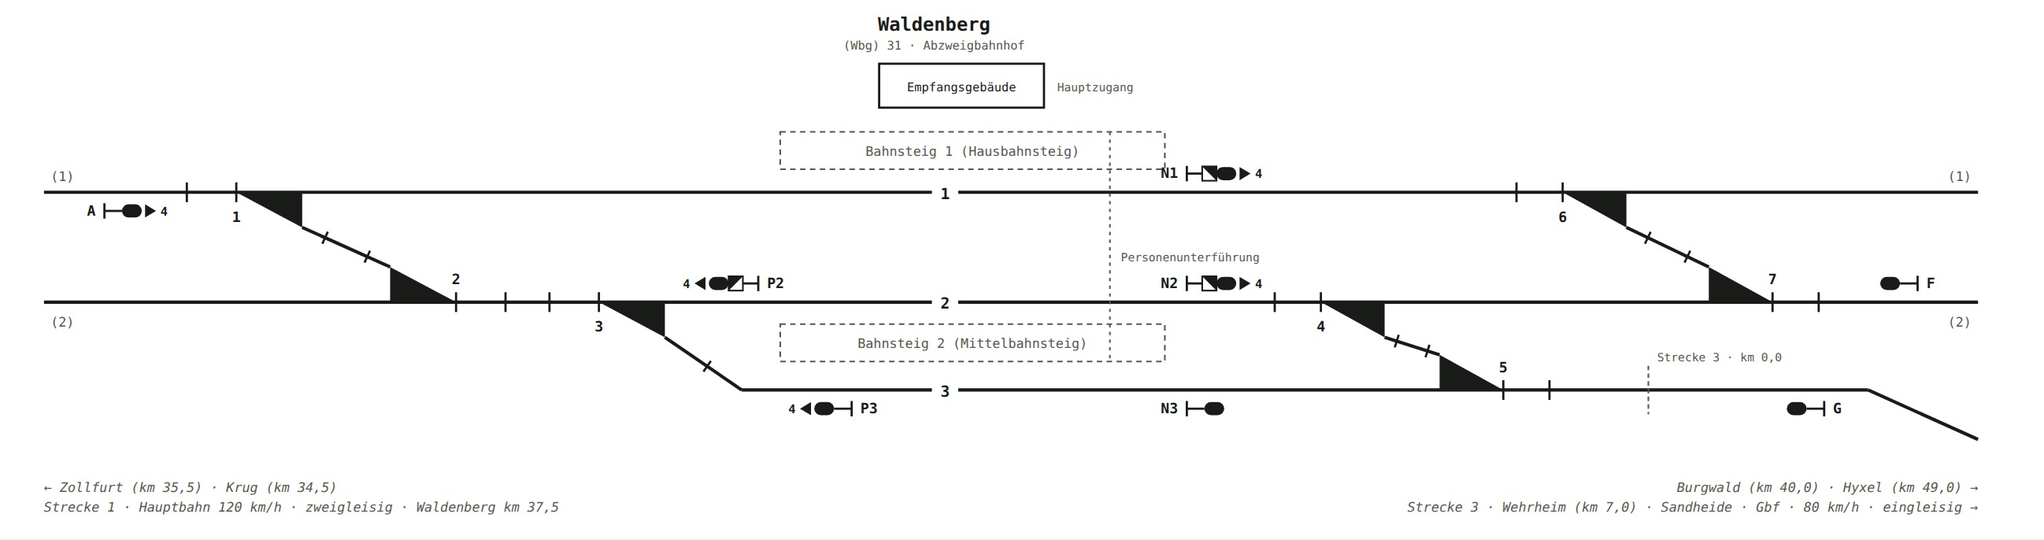
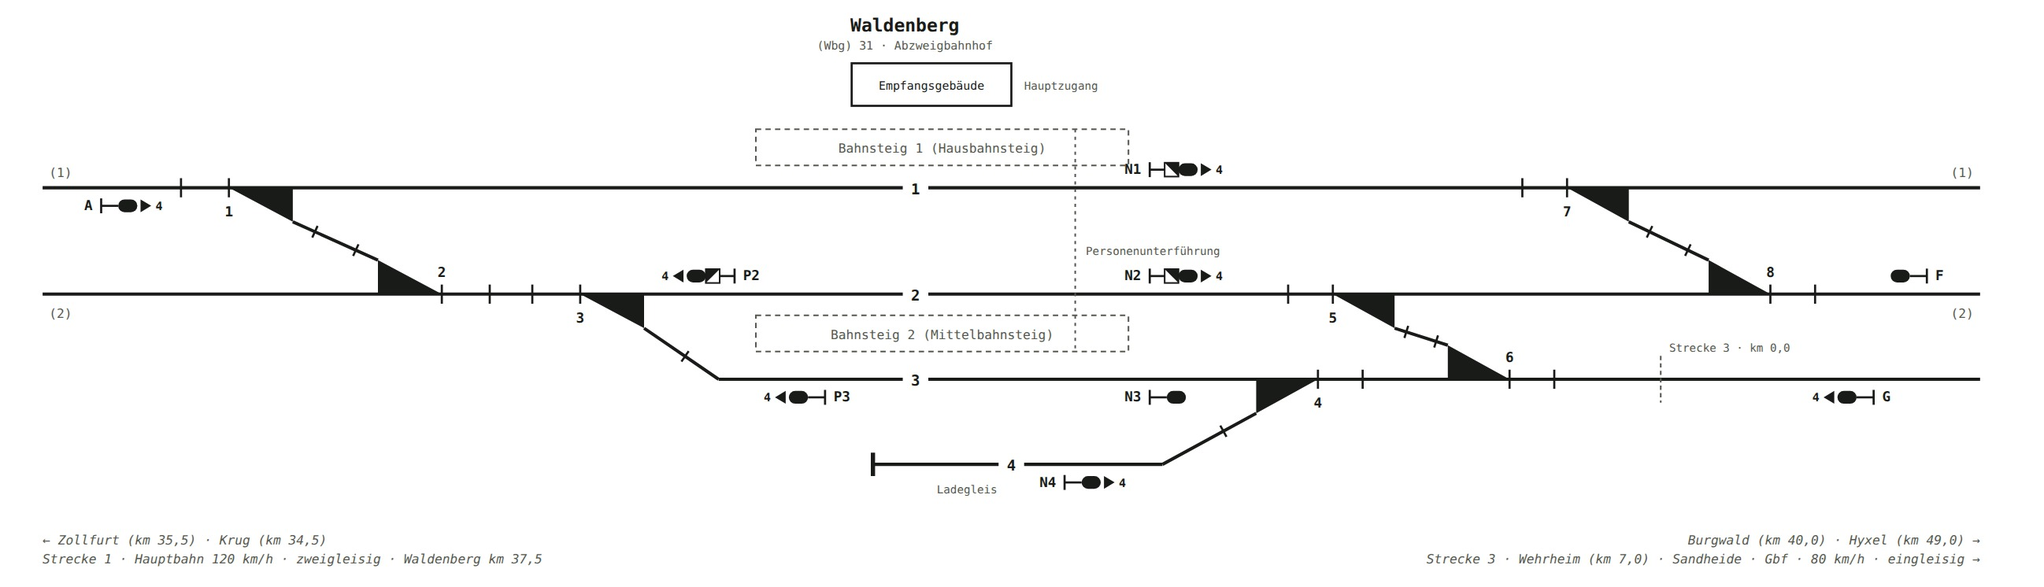
Waldenberg: Ladegleis 4 für den Übergabezug ergänzt
Üg 1 stand bisher in Gleis 3 und kollidierte dort mit der wendenden
RB 64: der Güterzug fährt um 11:35 ab, die RB 64 belegt Gleis 3 von
11:22 bis 11:36. Gleis 4 ist nun ein Stumpfgleis mit Prellbock im
Westen, südlich von Gleis 3, und über Weiche 4 östlich des Bahnsteigs
angebunden. Die Ausfahrt des Übergabezuges berührt den
Bahnsteigabschnitt damit nicht mehr.

Dazu Ausfahrsignal N4 mit Zs 3 für die abzweigende Fahrt über Weiche 4
sowie Zs 3 am Einfahrsignal G, das jetzt auch nach Gleis 4 und über
Weiche 6 nach Gleis 2 einfahren lassen kann. Die Ostkopfweichen sind
neu durchnummeriert, damit die Nummern weiter mit der Kilometrierung
steigen.

Claude-Session: https://claude.ai/code/session_01946ufwtxKyfXxUR2Dq2NLD

diff --git a/lageplan-waldenberg.html b/lageplan-waldenberg.html
@@ -82,7 +82,8 @@
     Wehrheim – Sandheide – Gbf beginnt hier bei <strong>km 0,0</strong>; ihr Bahnsteiggleis ist
     Gleis 3, das östlich des Bahnsteigs in die Nebenbahn übergeht. Weil Gleis 2 über die
     Weichen 4 und 5 eine <strong>eigene Anbindung an die Nebenbahn</strong> hat, kann ein Zug
-    aus Gleis 2 auf die Nebenbahn ausfahren, während in Gleis 3 ein anderer wendet. Beide Hauptgleise bleiben
+    aus Gleis 2 auf die Nebenbahn ausfahren, während in Gleis 3 ein anderer wendet. Für den
+    Übergabezug Üg 1 liegt südlich davon das <strong>Ladegleis 4</strong> als Stumpfgleis. Beide Hauptgleise bleiben
     durchgehend gerade, damit IC 11/13/15, RE 70/71 und die Güterzüge mit 120 km/h ohne
     abzweigend zu befahrende Weiche durchfahren können.
   </p>
@@ -100,11 +101,14 @@
     </p>
 
     <div class="diagram-scroll">
-      <svg class="plan" viewBox="0 0 1860 490" role="img" aria-label="Sicherungstechnischer Lageplan des Abzweigbahnhofs Waldenberg. Die zweigleisige Hauptbahn (Strecke 1, Krug–Furth, km 37,5) läuft mit Gleis 1 und Gleis 2 durchgehend gerade durch die Betriebsstelle. Gleis 3 liegt südlich als Bahnsteiggleis der eingleisigen Nebenbahn und geht östlich unmittelbar in die Strecke 3 nach Wehrheim–Sandheide–Gbf über, deren Kilometrierung hier bei km 0,0 beginnt. Am Westkopf verbinden die Weichen 1 und 2 als Überleitverbinder Gleis 1 und Gleis 2, Weiche 3 führt von Gleis 2 auf Gleis 3. Am Ostkopf binden die Weichen 4 und 5 Gleis 2 östlich des Bahnsteigs an die Nebenbahn an, die Weichen 6 und 7 bilden einen zweiten Überleitverbinder zwischen Gleis 1 und Gleis 2. Bahnsteig 1 ist Hausbahnsteig an Gleis 1 am Empfangsgebäude, Bahnsteig 2 ist Mittelbahnsteig zwischen Gleis 2 und Gleis 3, verbunden über eine Personenunterführung. Einfahrsignale A (von Zollfurt), F (von Burgwald) und G (von Wehrheim), Ausfahrsignale N1, N2, N3, P2 und P3; N1 und P2 mit Gegengleisanzeiger und Zs 3 für die Fahrt über den jeweiligen Überleitverbinder auf das Gegengleis.">
+      <svg class="plan" viewBox="0 0 1920 550" role="img" aria-label="Sicherungstechnischer Lageplan des Abzweigbahnhofs Waldenberg. Die zweigleisige Hauptbahn (Strecke 1, Krug–Furth, km 37,5) läuft mit Gleis 1 und Gleis 2 durchgehend gerade durch die Betriebsstelle. Gleis 3 liegt südlich als Bahnsteiggleis der eingleisigen Nebenbahn und geht östlich unmittelbar in die Strecke 3 nach Wehrheim–Sandheide–Gbf über, deren Kilometrierung hier bei km 0,0 beginnt. Am Westkopf verbinden die Weichen 1 und 2 als Überleitverbinder Gleis 1 und Gleis 2, Weiche 3 führt von Gleis 2 auf Gleis 3. Am Ostkopf bindet Weiche 4 das Ladegleis 4 an, die Weichen 5 und 6 verbinden Gleis 2 östlich des Bahnsteigs mit der Nebenbahn, die Weichen 7 und 8 bilden einen zweiten Überleitverbinder zwischen Gleis 1 und Gleis 2. Bahnsteig 1 ist Hausbahnsteig an Gleis 1 am Empfangsgebäude, Bahnsteig 2 ist Mittelbahnsteig zwischen Gleis 2 und Gleis 3, verbunden über eine Personenunterführung. Einfahrsignale A (von Zollfurt), F (von Burgwald) und G (von Wehrheim), Ausfahrsignale N1, N2, N3, N4, P2 und P3; N1 und P2 mit Gegengleisanzeiger und Zs 3 für die Fahrt über den jeweiligen Überleitverbinder auf das Gegengleis.">
         <text x="850" y="28" text-anchor="middle" font-size="17" font-weight="700" fill="currentColor">Waldenberg</text>
         <text x="850" y="45" text-anchor="middle" font-size="11" fill="var(--ink-soft)">(Wbg) 31 · Abzweigbahnhof</text>
-        <g stroke="currentColor" fill="none" stroke-width="3"><line x1="40" y1="175" x2="1800" y2="175"/><line x1="40" y1="275" x2="1800" y2="275"/></g>
-        <g stroke="currentColor" fill="none" stroke-width="3"><line x1="675" y1="355" x2="1700" y2="355"/><line x1="1700" y1="355" x2="1800" y2="400"/></g>
+        <g stroke="currentColor" fill="none" stroke-width="3"><line x1="40" y1="175" x2="1860" y2="175"/><line x1="40" y1="275" x2="1860" y2="275"/></g>
+        <g stroke="currentColor" fill="none" stroke-width="3"><line x1="675" y1="355" x2="1860" y2="355"/></g>
+        <line x1="820" y1="435" x2="1092" y2="435" stroke="currentColor" fill="none" stroke-width="3"/>
+        <line x1="820" y1="424" x2="820" y2="446" stroke="currentColor" stroke-width="4"/>
+        <text x="880" y="462" font-size="10.5" fill="var(--ink-soft)">Ladegleis</text>
         <line x1="170" y1="166" x2="170" y2="184" stroke="currentColor" stroke-width="2"/>
 <line x1="215" y1="166" x2="215" y2="184" stroke="currentColor" stroke-width="2"/>
 <polygon points="215,175 275,175 275,207" fill="currentColor"/>
@@ -122,28 +126,34 @@
 <text x="545" y="302" text-anchor="middle" font-size="13" font-weight="600" fill="currentColor">3</text>
         <line x1="605" y1="307" x2="675" y2="355" stroke="currentColor" stroke-width="3"/>
         <line x1="640.1" y1="338.3" x2="646.9" y2="328.5" stroke="currentColor" stroke-width="2"/>
-        <line x1="1160" y1="266" x2="1160" y2="284" stroke="currentColor" stroke-width="2"/>
-<line x1="1202" y1="266" x2="1202" y2="284" stroke="currentColor" stroke-width="2"/>
-<polygon points="1202,275 1260,275 1260,307" fill="currentColor"/>
-<text x="1202" y="302" text-anchor="middle" font-size="13" font-weight="600" fill="currentColor">4</text>
-        <line x1="1410" y1="346" x2="1410" y2="364" stroke="currentColor" stroke-width="2"/>
-<line x1="1368" y1="346" x2="1368" y2="364" stroke="currentColor" stroke-width="2"/>
-<polygon points="1368,355 1310,355 1310,323" fill="currentColor"/>
-<text x="1368" y="339" text-anchor="middle" font-size="13" font-weight="600" fill="currentColor">5</text>
-        <line x1="1260" y1="307" x2="1310" y2="323" stroke="currentColor" stroke-width="3"/>
-        <line x1="1269.2" y1="316.2" x2="1272.8" y2="304.8" stroke="currentColor" stroke-width="2"/>
-        <line x1="1297.2" y1="325.2" x2="1300.8" y2="313.8" stroke="currentColor" stroke-width="2"/>
-        <line x1="1380" y1="166" x2="1380" y2="184" stroke="currentColor" stroke-width="2"/>
-<line x1="1422" y1="166" x2="1422" y2="184" stroke="currentColor" stroke-width="2"/>
-<polygon points="1422,175 1480,175 1480,207" fill="currentColor"/>
-<text x="1422" y="202" text-anchor="middle" font-size="13" font-weight="600" fill="currentColor">6</text>
-        <line x1="1655" y1="266" x2="1655" y2="284" stroke="currentColor" stroke-width="2"/>
-<line x1="1613" y1="266" x2="1613" y2="284" stroke="currentColor" stroke-width="2"/>
-<polygon points="1613,275 1555,275 1555,243" fill="currentColor"/>
-<text x="1613" y="259" text-anchor="middle" font-size="13" font-weight="600" fill="currentColor">7</text>
-        <line x1="1480" y1="207" x2="1555" y2="243" stroke="currentColor" stroke-width="3"/>
-        <line x1="1496.9" y1="221.8" x2="1502.1" y2="211.0" stroke="currentColor" stroke-width="2"/>
-        <line x1="1532.9" y1="239.0" x2="1538.1" y2="228.2" stroke="currentColor" stroke-width="2"/>
+        <line x1="1280" y1="346" x2="1280" y2="364" stroke="currentColor" stroke-width="2"/>
+<line x1="1238" y1="346" x2="1238" y2="364" stroke="currentColor" stroke-width="2"/>
+<polygon points="1238,355 1180,355 1180,387" fill="currentColor"/>
+<text x="1238" y="382" text-anchor="middle" font-size="13" font-weight="600" fill="currentColor">4</text>
+        <line x1="1180" y1="387" x2="1092" y2="435" stroke="currentColor" stroke-width="3"/>
+        <line x1="1146.3" y1="398.5" x2="1152.1" y2="409.1" stroke="currentColor" stroke-width="2"/>
+        <line x1="1210" y1="266" x2="1210" y2="284" stroke="currentColor" stroke-width="2"/>
+<line x1="1252" y1="266" x2="1252" y2="284" stroke="currentColor" stroke-width="2"/>
+<polygon points="1252,275 1310,275 1310,307" fill="currentColor"/>
+<text x="1252" y="302" text-anchor="middle" font-size="13" font-weight="600" fill="currentColor">5</text>
+        <line x1="1460" y1="346" x2="1460" y2="364" stroke="currentColor" stroke-width="2"/>
+<line x1="1418" y1="346" x2="1418" y2="364" stroke="currentColor" stroke-width="2"/>
+<polygon points="1418,355 1360,355 1360,323" fill="currentColor"/>
+<text x="1418" y="339" text-anchor="middle" font-size="13" font-weight="600" fill="currentColor">6</text>
+        <line x1="1310" y1="307" x2="1360" y2="323" stroke="currentColor" stroke-width="3"/>
+        <line x1="1319.2" y1="316.2" x2="1322.8" y2="304.8" stroke="currentColor" stroke-width="2"/>
+        <line x1="1347.2" y1="325.2" x2="1350.8" y2="313.8" stroke="currentColor" stroke-width="2"/>
+        <line x1="1430" y1="166" x2="1430" y2="184" stroke="currentColor" stroke-width="2"/>
+<line x1="1472" y1="166" x2="1472" y2="184" stroke="currentColor" stroke-width="2"/>
+<polygon points="1472,175 1530,175 1530,207" fill="currentColor"/>
+<text x="1472" y="202" text-anchor="middle" font-size="13" font-weight="600" fill="currentColor">7</text>
+        <line x1="1705" y1="266" x2="1705" y2="284" stroke="currentColor" stroke-width="2"/>
+<line x1="1663" y1="266" x2="1663" y2="284" stroke="currentColor" stroke-width="2"/>
+<polygon points="1663,275 1605,275 1605,243" fill="currentColor"/>
+<text x="1663" y="259" text-anchor="middle" font-size="13" font-weight="600" fill="currentColor">8</text>
+        <line x1="1530" y1="207" x2="1605" y2="243" stroke="currentColor" stroke-width="3"/>
+        <line x1="1546.9" y1="221.8" x2="1552.1" y2="211.0" stroke="currentColor" stroke-width="2"/>
+        <line x1="1582.9" y1="239.0" x2="1588.1" y2="228.2" stroke="currentColor" stroke-width="2"/>
         <rect x="800" y="58" width="150" height="40" fill="none" stroke="currentColor" stroke-width="2"/>
         <text x="875" y="83" text-anchor="middle" font-size="11" fill="currentColor">Empfangsgebäude</text>
         <text x="962" y="83" font-size="10.5" fill="var(--ink-soft)">Hauptzugang</text>
@@ -156,7 +166,8 @@
         <rect x="848" y="165" width="24" height="20" fill="var(--surface)"/><text x="860" y="181" text-anchor="middle" font-size="14" font-weight="600" fill="currentColor">1</text>
         <rect x="848" y="265" width="24" height="20" fill="var(--surface)"/><text x="860" y="281" text-anchor="middle" font-size="14" font-weight="600" fill="currentColor">2</text>
         <rect x="848" y="345" width="24" height="20" fill="var(--surface)"/><text x="860" y="361" text-anchor="middle" font-size="14" font-weight="600" fill="currentColor">3</text>
-        <g fill="var(--ink-soft)" font-size="12"><text x="46" y="165">(1)</text><text x="46" y="297">(2)</text><text x="1794" y="165" text-anchor="end">(1)</text><text x="1794" y="297" text-anchor="end">(2)</text></g>
+        <rect x="938" y="425" width="24" height="20" fill="var(--surface)"/><text x="950" y="441" text-anchor="middle" font-size="14" font-weight="600" fill="currentColor">4</text>
+        <g fill="var(--ink-soft)" font-size="12"><text x="46" y="165">(1)</text><text x="46" y="297">(2)</text><text x="1854" y="165" text-anchor="end">(1)</text><text x="1854" y="297" text-anchor="end">(2)</text></g>
         <g stroke="currentColor" stroke-width="2" fill="none"><line x1="95" y1="185" x2="95" y2="199"/><line x1="95" y1="192" x2="111" y2="192"/></g>
 <rect x="111" y="186" width="18" height="12" rx="6" fill="currentColor"/>
 <polygon points="132,186 142,192 132,198" fill="currentColor"/>
@@ -191,15 +202,22 @@
         <g stroke="currentColor" stroke-width="2" fill="none"><line x1="1080" y1="365" x2="1080" y2="379"/><line x1="1080" y1="372" x2="1096" y2="372"/></g>
 <rect x="1096" y="366" width="18" height="12" rx="6" fill="currentColor"/>
 <text x="1072" y="376" text-anchor="end" font-size="13" font-weight="600" fill="currentColor">N3</text>
-        <g stroke="currentColor" stroke-width="2" fill="none"><line x1="1745" y1="251" x2="1745" y2="265"/><line x1="1745" y1="258" x2="1729" y2="258"/></g>
-<rect x="1711" y="252" width="18" height="12" rx="6" fill="currentColor"/>
-<text x="1753" y="262" font-size="13" font-weight="600" fill="currentColor">F</text>
-        <g stroke="currentColor" stroke-width="2" fill="none"><line x1="1660" y1="365" x2="1660" y2="379"/><line x1="1660" y1="372" x2="1644" y2="372"/></g>
-<rect x="1626" y="366" width="18" height="12" rx="6" fill="currentColor"/>
-<text x="1668" y="376" font-size="13" font-weight="600" fill="currentColor">G</text>
-        <line x1="1500" y1="333" x2="1500" y2="377" stroke="var(--ink-soft)" stroke-width="1.5" stroke-dasharray="4,3"/>
-        <text x="1508" y="329" font-size="10.5" fill="var(--ink-soft)">Strecke 3 · km 0,0</text>
-        <g fill="var(--ink-soft)" font-size="12" font-style="italic"><text x="40" y="448">← Zollfurt (km 35,5) · Krug (km 34,5)</text><text x="40" y="466">Strecke 1 · Hauptbahn 120 km/h · zweigleisig · Waldenberg km 37,5</text><text x="1800" y="448" text-anchor="end">Burgwald (km 40,0) · Hyxel (km 49,0) →</text><text x="1800" y="466" text-anchor="end">Strecke 3 · Wehrheim (km 7,0) · Sandheide · Gbf · 80 km/h · eingleisig →</text></g>
+        <g stroke="currentColor" stroke-width="2" fill="none"><line x1="1000" y1="445" x2="1000" y2="459"/><line x1="1000" y1="452" x2="1016" y2="452"/></g>
+<rect x="1016" y="446" width="18" height="12" rx="6" fill="currentColor"/>
+<polygon points="1037,446 1047,452 1037,458" fill="currentColor"/>
+<text x="1051" y="456" font-size="11" font-weight="600" fill="currentColor">4</text>
+<text x="992" y="456" text-anchor="end" font-size="13" font-weight="600" fill="currentColor">N4</text>
+        <g stroke="currentColor" stroke-width="2" fill="none"><line x1="1810" y1="251" x2="1810" y2="265"/><line x1="1810" y1="258" x2="1794" y2="258"/></g>
+<rect x="1776" y="252" width="18" height="12" rx="6" fill="currentColor"/>
+<text x="1818" y="262" font-size="13" font-weight="600" fill="currentColor">F</text>
+        <g stroke="currentColor" stroke-width="2" fill="none"><line x1="1760" y1="365" x2="1760" y2="379"/><line x1="1760" y1="372" x2="1744" y2="372"/></g>
+<rect x="1726" y="366" width="18" height="12" rx="6" fill="currentColor"/>
+<polygon points="1723,366 1713,372 1723,378" fill="currentColor"/>
+<text x="1709" y="376" text-anchor="end" font-size="11" font-weight="600" fill="currentColor">4</text>
+<text x="1768" y="376" font-size="13" font-weight="600" fill="currentColor">G</text>
+        <line x1="1560" y1="333" x2="1560" y2="377" stroke="var(--ink-soft)" stroke-width="1.5" stroke-dasharray="4,3"/>
+        <text x="1568" y="329" font-size="10.5" fill="var(--ink-soft)">Strecke 3 · km 0,0</text>
+        <g fill="var(--ink-soft)" font-size="12" font-style="italic"><text x="40" y="510">← Zollfurt (km 35,5) · Krug (km 34,5)</text><text x="40" y="528">Strecke 1 · Hauptbahn 120 km/h · zweigleisig · Waldenberg km 37,5</text><text x="1860" y="510" text-anchor="end">Burgwald (km 40,0) · Hyxel (km 49,0) →</text><text x="1860" y="528" text-anchor="end">Strecke 3 · Wehrheim (km 7,0) · Sandheide · Gbf · 80 km/h · eingleisig →</text></g>
       </svg>
     </div>
 
@@ -210,7 +228,8 @@
       <span>Hauptgleise 1 und 2 durchgehend gerade, Streckengeschwindigkeit 120 km/h.</span>
       <span>Strecke 3 (Nebenbahn) beginnt in Waldenberg bei km 0,0, eingleisig, 80 km/h.</span>
       <span>Gegengleisfahrten über die Überleitverbinder sind signalisiert: Gegengleisanzeiger an P2, N1 und N2.</span>
-      <span>Gleis 3 und die Anbindung Gleis 2 → Nebenbahn (Weichen 4/5) sind voneinander unabhängig befahrbar.</span>
+      <span>Gleis 3 und die Anbindung Gleis 2 → Nebenbahn (Weichen 5/6) sind voneinander unabhängig befahrbar.</span>
+      <span>Gleis 4 ist Ladegleis ohne Bahnsteig, Stumpfgleis mit Prellbock im Westen.</span>
     </div>
   </section>
 
@@ -226,8 +245,8 @@
           <tr><td class="mono">IC 11/13/15<br>RE 70/71<br>GZ 2/3/4</td><td>Durchfahrt Hauptbahn ohne Halt, gerade über beide Hauptgleise</td><td class="mono">1 / 2</td></tr>
           <tr><td class="mono">RE 71 · RB 61<br>RB 65</td><td>Halt an der Hauptbahn: Richtung Osten an Bahnsteig 1, Richtung Westen an Bahnsteig 2</td><td class="mono">1 / 2</td></tr>
           <tr><td class="mono">RB 64</td><td><strong>Wendet in Waldenberg.</strong> Einfahrt von Wehrheim über Signal G, Halt an Bahnsteig 2, Ausfahrt über N3 zurück zur Nebenbahn – ohne die Hauptgleise zu berühren</td><td class="mono">3</td></tr>
-          <tr><td class="mono">RB 66</td><td><strong>Übergang Hauptbahn → Nebenbahn.</strong> Einfahrt von Krug über A, Überleitverbinder Weichen 1/2 auf Gleis 2, Halt an Bahnsteig 2, Ausfahrt über N2 (Zs 3) und die Weichen 4/5 auf die Nebenbahn – <strong>Gleis 3 bleibt dabei frei</strong></td><td class="mono">1 → 2</td></tr>
-          <tr><td class="mono">Üg 1</td><td>Beginnt und endet in Waldenberg, bereitgestellt in Gleis 3 (Wende- und Bereitstellungsgleis der Nebenbahn)</td><td class="mono">3</td></tr>
+          <tr><td class="mono">RB 66</td><td><strong>Übergang Hauptbahn → Nebenbahn.</strong> Einfahrt von Krug über A, Überleitverbinder Weichen 1/2 auf Gleis 2, Halt an Bahnsteig 2, Ausfahrt über N2 (Zs 3) und die Weichen 5/6 auf die Nebenbahn – <strong>Gleis 3 bleibt dabei frei</strong></td><td class="mono">1 → 2</td></tr>
+          <tr><td class="mono">Üg 1</td><td>Beginnt und endet in Waldenberg, bereitgestellt im <strong>Ladegleis 4</strong>. Ausfahrt über N4 und Weiche 4 auf Gleis 3 – die Fahrt berührt den Bahnsteigabschnitt von Gleis 3 nicht, die RB 64 kann dort gleichzeitig wenden</td><td class="mono">4</td></tr>
         </tbody>
       </table>
     </div>
@@ -244,10 +263,11 @@
               <tr><td class="mono">1</td><td class="mono">31W1</td><td>Gleis 1 → Verbindungsgleis (Westkopf, Überleitverbinder)</td></tr>
               <tr><td class="mono">2</td><td class="mono">31W2</td><td>Verbindungsgleis → Gleis 2 (Westkopf, Überleitverbinder)</td></tr>
               <tr><td class="mono">3</td><td class="mono">31W3</td><td>Gleis 2 → Gleis 3 (Westanbindung des Nebenbahngleises)</td></tr>
-              <tr><td class="mono">4</td><td class="mono">31W4</td><td>Gleis 2 → Verbindungsgleis zur Nebenbahn (Ostkopf)</td></tr>
-              <tr><td class="mono">5</td><td class="mono">31W5</td><td>Verbindungsgleis → Gleis 3 / Nebenbahn (Ostkopf, östlich des Bahnsteigs)</td></tr>
-              <tr><td class="mono">6</td><td class="mono">31W6</td><td>Gleis 1 → Verbindungsgleis (Ostkopf, Überleitverbinder)</td></tr>
-              <tr><td class="mono">7</td><td class="mono">31W7</td><td>Verbindungsgleis → Gleis 2 (Ostkopf, Überleitverbinder)</td></tr>
+              <tr><td class="mono">4</td><td class="mono">31W4</td><td>Gleis 3 → Gleis 4 (Anbindung des Ladegleises, östlich des Bahnsteigs)</td></tr>
+              <tr><td class="mono">5</td><td class="mono">31W5</td><td>Gleis 2 → Verbindungsgleis zur Nebenbahn (Ostkopf)</td></tr>
+              <tr><td class="mono">6</td><td class="mono">31W6</td><td>Verbindungsgleis → Gleis 3 / Nebenbahn (Ostkopf)</td></tr>
+              <tr><td class="mono">7</td><td class="mono">31W7</td><td>Gleis 1 → Verbindungsgleis (Ostkopf, Überleitverbinder)</td></tr>
+              <tr><td class="mono">8</td><td class="mono">31W8</td><td>Verbindungsgleis → Gleis 2 (Ostkopf, Überleitverbinder)</td></tr>
             </tbody>
           </table>
         </div>
@@ -260,10 +280,11 @@
             <tbody>
               <tr><td class="mono">A</td><td class="mono">31A</td><td>Einfahrsignal Gleis 1, von Zollfurt/Krug · mit <strong>Zs 3 (4)</strong> für die Einfahrt nach Gleis 3 über die Weichen 1/2/3</td></tr>
               <tr><td class="mono">F</td><td class="mono">31F</td><td>Einfahrsignal Gleis 2, von Burgwald/Hyxel</td></tr>
-              <tr><td class="mono">G</td><td class="mono">31G</td><td>Einfahrsignal Nebenbahn, von Wehrheim (Strecke 3)</td></tr>
-              <tr><td class="mono">N1</td><td class="mono">31N1</td><td>Ausfahrsignal Gleis 1, Richtung Burgwald/Hyxel · am Ostende von Bahnsteig 1 · mit <strong>Gegengleisanzeiger</strong> und <strong>Zs 3 (4)</strong> für die Fahrt über die Weichen 6/7 auf das Gegengleis</td></tr>
-              <tr><td class="mono">N2</td><td class="mono">31N2</td><td>Ausfahrsignal Gleis 2, Richtung Osten · am Ostende von Bahnsteig 2 · mit <strong>Zs 3 (4)</strong> für die Fahrt über die Weichen 4/5 auf die Nebenbahn und <strong>Gegengleisanzeiger</strong> für die Fahrt auf Streckengleis (2)</td></tr>
+              <tr><td class="mono">G</td><td class="mono">31G</td><td>Einfahrsignal Nebenbahn, von Wehrheim (Strecke 3) · mit <strong>Zs 3 (4)</strong> für die Einfahrt nach Gleis 4 oder über Weiche 6 nach Gleis 2</td></tr>
+              <tr><td class="mono">N1</td><td class="mono">31N1</td><td>Ausfahrsignal Gleis 1, Richtung Burgwald/Hyxel · am Ostende von Bahnsteig 1 · mit <strong>Gegengleisanzeiger</strong> und <strong>Zs 3 (4)</strong> für die Fahrt über die Weichen 7/8 auf das Gegengleis</td></tr>
+              <tr><td class="mono">N2</td><td class="mono">31N2</td><td>Ausfahrsignal Gleis 2, Richtung Osten · am Ostende von Bahnsteig 2 · mit <strong>Zs 3 (4)</strong> für die Fahrt über die Weichen 5/6 auf die Nebenbahn und <strong>Gegengleisanzeiger</strong> für die Fahrt auf Streckengleis (2)</td></tr>
               <tr><td class="mono">N3</td><td class="mono">31N3</td><td>Ausfahrsignal Gleis 3, Richtung Wehrheim · am Ostende von Bahnsteig 2</td></tr>
+              <tr><td class="mono">N4</td><td class="mono">31N4</td><td>Ausfahrsignal Gleis 4 (Ladegleis), Richtung Wehrheim · mit <strong>Zs 3 (4)</strong> für die Fahrt über Weiche 4 auf Gleis 3</td></tr>
               <tr><td class="mono">P2</td><td class="mono">31P2</td><td>Ausfahrsignal Gleis 2, Richtung Zollfurt/Krug · am Westende von Bahnsteig 2 · mit <strong>Gegengleisanzeiger</strong> und <strong>Zs 3 (4)</strong> für die Fahrt über die Weichen 2/1 auf das Gegengleis</td></tr>
               <tr><td class="mono">P3</td><td class="mono">31P3</td><td>Ausfahrsignal Gleis 3, Richtung Zollfurt/Krug über die Weichen 3/2 · mit <strong>Zs 3 (4)</strong></td></tr>
               <tr><td class="mono">—</td><td class="mono">—</td><td>Gesonderte Vorsignale entfallen: Vorsignalisierung über den Ks-2-Begriff der Mehrabschnittssignale</td></tr>
@@ -275,13 +296,13 @@
 
     <div class="caveat">
       <strong>Signalstandorte:</strong> Die Einfahrsignale A, F und G stehen an der jeweiligen
-      Bahnhofsgrenze vor der ersten Einfahrweiche. Die Ausfahrsignale N1, N2, N3, P2 und P3 stehen
+      Bahnhofsgrenze vor der ersten Einfahrweiche. Die Ausfahrsignale N1, N2, N3, N4, P2 und P3 stehen
       am Ende des jeweiligen Bahnhofsgleises unmittelbar hinter dem Bahnsteig; die Ausfahrstraße
       läuft von dort über alle Bahnhofsweichen. Einen Zs 3 tragen nur die Signale, deren
       Fahrstraße abzweigend über eine Weiche führt: A (Einfahrt nach Gleis 3), P3 (Ausfahrt über
       die Weichen 3/2) sowie P2 und N1 für die Fahrt über den jeweiligen Überleitverbinder.
       P2 und N1 tragen zusätzlich den <strong>Gegengleisanzeiger</strong>, weil der Zug dabei auf
-      das Streckengleis der Gegenrichtung übergeht. Die Weichen 4 und 5 sind der Grund, warum das mit drei Gleisen aufgeht: Der Fahrplan
+      das Streckengleis der Gegenrichtung übergeht. Die Weichen 5 und 6 sind der Grund, warum das mit drei Gleisen aufgeht: Der Fahrplan
       verlangt um 10:34 eine Nebenbahn-Ausfahrt der RB 66, während die RB 64 von 10:22 bis 10:36
       in Gleis 3 wendet. Über Gleis 2 und die Weichen 4/5 sind beide Fahrten unabhängig.
     </div>

diff --git a/zeichnung-waldenberg.html b/zeichnung-waldenberg.html
@@ -17,11 +17,14 @@
 <text x="42" y="60" font-size="15" font-weight="700" fill="#000" font-family="IBM Plex Mono, monospace">Lageplan Waldenberg</text>
 <text x="1558" y="60" text-anchor="end" font-size="11" fill="#000" font-family="IBM Plex Mono, monospace">Ril 819.9001 / 819.9002</text>
 <line x1="42" y1="70" x2="1558" y2="70" stroke="#000" stroke-width="1"/>
-<g transform="translate(46,345) scale(0.81)" font-family="IBM Plex Mono, monospace">
+<g transform="translate(51,300) scale(0.78)" font-family="IBM Plex Mono, monospace">
         <text x="850" y="28" text-anchor="middle" font-size="17" font-weight="700" fill="#000000">Waldenberg</text>
         <text x="850" y="45" text-anchor="middle" font-size="11" fill="#333333">(Wbg) 31 · Abzweigbahnhof</text>
-        <g stroke="#000000" fill="none" stroke-width="3"><line x1="40" y1="175" x2="1800" y2="175"/><line x1="40" y1="275" x2="1800" y2="275"/></g>
-        <g stroke="#000000" fill="none" stroke-width="3"><line x1="675" y1="355" x2="1700" y2="355"/><line x1="1700" y1="355" x2="1800" y2="400"/></g>
+        <g stroke="#000000" fill="none" stroke-width="3"><line x1="40" y1="175" x2="1860" y2="175"/><line x1="40" y1="275" x2="1860" y2="275"/></g>
+        <g stroke="#000000" fill="none" stroke-width="3"><line x1="675" y1="355" x2="1860" y2="355"/></g>
+        <line x1="820" y1="435" x2="1092" y2="435" stroke="#000000" fill="none" stroke-width="3"/>
+        <line x1="820" y1="424" x2="820" y2="446" stroke="#000000" stroke-width="4"/>
+        <text x="880" y="462" font-size="10.5" fill="#333333">Ladegleis</text>
         <line x1="170" y1="166" x2="170" y2="184" stroke="#000000" stroke-width="2"/>
 <line x1="215" y1="166" x2="215" y2="184" stroke="#000000" stroke-width="2"/>
 <polygon points="215,175 275,175 275,207" fill="#000000"/>
@@ -39,28 +42,34 @@
 <text x="545" y="302" text-anchor="middle" font-size="13" font-weight="600" fill="#000000">3</text>
         <line x1="605" y1="307" x2="675" y2="355" stroke="#000000" stroke-width="3"/>
         <line x1="640.1" y1="338.3" x2="646.9" y2="328.5" stroke="#000000" stroke-width="2"/>
-        <line x1="1160" y1="266" x2="1160" y2="284" stroke="#000000" stroke-width="2"/>
-<line x1="1202" y1="266" x2="1202" y2="284" stroke="#000000" stroke-width="2"/>
-<polygon points="1202,275 1260,275 1260,307" fill="#000000"/>
-<text x="1202" y="302" text-anchor="middle" font-size="13" font-weight="600" fill="#000000">4</text>
-        <line x1="1410" y1="346" x2="1410" y2="364" stroke="#000000" stroke-width="2"/>
-<line x1="1368" y1="346" x2="1368" y2="364" stroke="#000000" stroke-width="2"/>
-<polygon points="1368,355 1310,355 1310,323" fill="#000000"/>
-<text x="1368" y="339" text-anchor="middle" font-size="13" font-weight="600" fill="#000000">5</text>
-        <line x1="1260" y1="307" x2="1310" y2="323" stroke="#000000" stroke-width="3"/>
-        <line x1="1269.2" y1="316.2" x2="1272.8" y2="304.8" stroke="#000000" stroke-width="2"/>
-        <line x1="1297.2" y1="325.2" x2="1300.8" y2="313.8" stroke="#000000" stroke-width="2"/>
-        <line x1="1380" y1="166" x2="1380" y2="184" stroke="#000000" stroke-width="2"/>
-<line x1="1422" y1="166" x2="1422" y2="184" stroke="#000000" stroke-width="2"/>
-<polygon points="1422,175 1480,175 1480,207" fill="#000000"/>
-<text x="1422" y="202" text-anchor="middle" font-size="13" font-weight="600" fill="#000000">6</text>
-        <line x1="1655" y1="266" x2="1655" y2="284" stroke="#000000" stroke-width="2"/>
-<line x1="1613" y1="266" x2="1613" y2="284" stroke="#000000" stroke-width="2"/>
-<polygon points="1613,275 1555,275 1555,243" fill="#000000"/>
-<text x="1613" y="259" text-anchor="middle" font-size="13" font-weight="600" fill="#000000">7</text>
-        <line x1="1480" y1="207" x2="1555" y2="243" stroke="#000000" stroke-width="3"/>
-        <line x1="1496.9" y1="221.8" x2="1502.1" y2="211.0" stroke="#000000" stroke-width="2"/>
-        <line x1="1532.9" y1="239.0" x2="1538.1" y2="228.2" stroke="#000000" stroke-width="2"/>
+        <line x1="1280" y1="346" x2="1280" y2="364" stroke="#000000" stroke-width="2"/>
+<line x1="1238" y1="346" x2="1238" y2="364" stroke="#000000" stroke-width="2"/>
+<polygon points="1238,355 1180,355 1180,387" fill="#000000"/>
+<text x="1238" y="382" text-anchor="middle" font-size="13" font-weight="600" fill="#000000">4</text>
+        <line x1="1180" y1="387" x2="1092" y2="435" stroke="#000000" stroke-width="3"/>
+        <line x1="1146.3" y1="398.5" x2="1152.1" y2="409.1" stroke="#000000" stroke-width="2"/>
+        <line x1="1210" y1="266" x2="1210" y2="284" stroke="#000000" stroke-width="2"/>
+<line x1="1252" y1="266" x2="1252" y2="284" stroke="#000000" stroke-width="2"/>
+<polygon points="1252,275 1310,275 1310,307" fill="#000000"/>
+<text x="1252" y="302" text-anchor="middle" font-size="13" font-weight="600" fill="#000000">5</text>
+        <line x1="1460" y1="346" x2="1460" y2="364" stroke="#000000" stroke-width="2"/>
+<line x1="1418" y1="346" x2="1418" y2="364" stroke="#000000" stroke-width="2"/>
+<polygon points="1418,355 1360,355 1360,323" fill="#000000"/>
+<text x="1418" y="339" text-anchor="middle" font-size="13" font-weight="600" fill="#000000">6</text>
+        <line x1="1310" y1="307" x2="1360" y2="323" stroke="#000000" stroke-width="3"/>
+        <line x1="1319.2" y1="316.2" x2="1322.8" y2="304.8" stroke="#000000" stroke-width="2"/>
+        <line x1="1347.2" y1="325.2" x2="1350.8" y2="313.8" stroke="#000000" stroke-width="2"/>
+        <line x1="1430" y1="166" x2="1430" y2="184" stroke="#000000" stroke-width="2"/>
+<line x1="1472" y1="166" x2="1472" y2="184" stroke="#000000" stroke-width="2"/>
+<polygon points="1472,175 1530,175 1530,207" fill="#000000"/>
+<text x="1472" y="202" text-anchor="middle" font-size="13" font-weight="600" fill="#000000">7</text>
+        <line x1="1705" y1="266" x2="1705" y2="284" stroke="#000000" stroke-width="2"/>
+<line x1="1663" y1="266" x2="1663" y2="284" stroke="#000000" stroke-width="2"/>
+<polygon points="1663,275 1605,275 1605,243" fill="#000000"/>
+<text x="1663" y="259" text-anchor="middle" font-size="13" font-weight="600" fill="#000000">8</text>
+        <line x1="1530" y1="207" x2="1605" y2="243" stroke="#000000" stroke-width="3"/>
+        <line x1="1546.9" y1="221.8" x2="1552.1" y2="211.0" stroke="#000000" stroke-width="2"/>
+        <line x1="1582.9" y1="239.0" x2="1588.1" y2="228.2" stroke="#000000" stroke-width="2"/>
         <rect x="800" y="58" width="150" height="40" fill="none" stroke="#000000" stroke-width="2"/>
         <text x="875" y="83" text-anchor="middle" font-size="11" fill="#000000">Empfangsgebäude</text>
         <text x="962" y="83" font-size="10.5" fill="#333333">Hauptzugang</text>
@@ -73,7 +82,8 @@
         <rect x="848" y="165" width="24" height="20" fill="#ffffff"/><text x="860" y="181" text-anchor="middle" font-size="14" font-weight="600" fill="#000000">1</text>
         <rect x="848" y="265" width="24" height="20" fill="#ffffff"/><text x="860" y="281" text-anchor="middle" font-size="14" font-weight="600" fill="#000000">2</text>
         <rect x="848" y="345" width="24" height="20" fill="#ffffff"/><text x="860" y="361" text-anchor="middle" font-size="14" font-weight="600" fill="#000000">3</text>
-        <g fill="#333333" font-size="12"><text x="46" y="165">(1)</text><text x="46" y="297">(2)</text><text x="1794" y="165" text-anchor="end">(1)</text><text x="1794" y="297" text-anchor="end">(2)</text></g>
+        <rect x="938" y="425" width="24" height="20" fill="#ffffff"/><text x="950" y="441" text-anchor="middle" font-size="14" font-weight="600" fill="#000000">4</text>
+        <g fill="#333333" font-size="12"><text x="46" y="165">(1)</text><text x="46" y="297">(2)</text><text x="1854" y="165" text-anchor="end">(1)</text><text x="1854" y="297" text-anchor="end">(2)</text></g>
         <g stroke="#000000" stroke-width="2" fill="none"><line x1="95" y1="185" x2="95" y2="199"/><line x1="95" y1="192" x2="111" y2="192"/></g>
 <rect x="111" y="186" width="18" height="12" rx="6" fill="#000000"/>
 <polygon points="132,186 142,192 132,198" fill="#000000"/>
@@ -108,15 +118,22 @@
         <g stroke="#000000" stroke-width="2" fill="none"><line x1="1080" y1="365" x2="1080" y2="379"/><line x1="1080" y1="372" x2="1096" y2="372"/></g>
 <rect x="1096" y="366" width="18" height="12" rx="6" fill="#000000"/>
 <text x="1072" y="376" text-anchor="end" font-size="13" font-weight="600" fill="#000000">N3</text>
-        <g stroke="#000000" stroke-width="2" fill="none"><line x1="1745" y1="251" x2="1745" y2="265"/><line x1="1745" y1="258" x2="1729" y2="258"/></g>
-<rect x="1711" y="252" width="18" height="12" rx="6" fill="#000000"/>
-<text x="1753" y="262" font-size="13" font-weight="600" fill="#000000">F</text>
-        <g stroke="#000000" stroke-width="2" fill="none"><line x1="1660" y1="365" x2="1660" y2="379"/><line x1="1660" y1="372" x2="1644" y2="372"/></g>
-<rect x="1626" y="366" width="18" height="12" rx="6" fill="#000000"/>
-<text x="1668" y="376" font-size="13" font-weight="600" fill="#000000">G</text>
-        <line x1="1500" y1="333" x2="1500" y2="377" stroke="#333333" stroke-width="1.5" stroke-dasharray="4,3"/>
-        <text x="1508" y="329" font-size="10.5" fill="#333333">Strecke 3 · km 0,0</text>
-        <g fill="#333333" font-size="12" font-style="italic"><text x="40" y="448">← Zollfurt (km 35,5) · Krug (km 34,5)</text><text x="40" y="466">Strecke 1 · Hauptbahn 120 km/h · zweigleisig · Waldenberg km 37,5</text><text x="1800" y="448" text-anchor="end">Burgwald (km 40,0) · Hyxel (km 49,0) →</text><text x="1800" y="466" text-anchor="end">Strecke 3 · Wehrheim (km 7,0) · Sandheide · Gbf · 80 km/h · eingleisig →</text></g>
+        <g stroke="#000000" stroke-width="2" fill="none"><line x1="1000" y1="445" x2="1000" y2="459"/><line x1="1000" y1="452" x2="1016" y2="452"/></g>
+<rect x="1016" y="446" width="18" height="12" rx="6" fill="#000000"/>
+<polygon points="1037,446 1047,452 1037,458" fill="#000000"/>
+<text x="1051" y="456" font-size="11" font-weight="600" fill="#000000">4</text>
+<text x="992" y="456" text-anchor="end" font-size="13" font-weight="600" fill="#000000">N4</text>
+        <g stroke="#000000" stroke-width="2" fill="none"><line x1="1810" y1="251" x2="1810" y2="265"/><line x1="1810" y1="258" x2="1794" y2="258"/></g>
+<rect x="1776" y="252" width="18" height="12" rx="6" fill="#000000"/>
+<text x="1818" y="262" font-size="13" font-weight="600" fill="#000000">F</text>
+        <g stroke="#000000" stroke-width="2" fill="none"><line x1="1760" y1="365" x2="1760" y2="379"/><line x1="1760" y1="372" x2="1744" y2="372"/></g>
+<rect x="1726" y="366" width="18" height="12" rx="6" fill="#000000"/>
+<polygon points="1723,366 1713,372 1723,378" fill="#000000"/>
+<text x="1709" y="376" text-anchor="end" font-size="11" font-weight="600" fill="#000000">4</text>
+<text x="1768" y="376" font-size="13" font-weight="600" fill="#000000">G</text>
+        <line x1="1560" y1="333" x2="1560" y2="377" stroke="#333333" stroke-width="1.5" stroke-dasharray="4,3"/>
+        <text x="1568" y="329" font-size="10.5" fill="#333333">Strecke 3 · km 0,0</text>
+        <g fill="#333333" font-size="12" font-style="italic"><text x="40" y="510">← Zollfurt (km 35,5) · Krug (km 34,5)</text><text x="40" y="528">Strecke 1 · Hauptbahn 120 km/h · zweigleisig · Waldenberg km 37,5</text><text x="1860" y="510" text-anchor="end">Burgwald (km 40,0) · Hyxel (km 49,0) →</text><text x="1860" y="528" text-anchor="end">Strecke 3 · Wehrheim (km 7,0) · Sandheide · Gbf · 80 km/h · eingleisig →</text></g>
 </g>
 <g font-family="IBM Plex Mono, monospace">
 <rect x="60" y="900" width="940" height="176" fill="none" stroke="#000" stroke-width="1.5"/>
@@ -138,7 +155,7 @@
 <g transform="translate(853.333,972)"><line x1="0" y1="8" x2="26" y2="8" stroke="#000" stroke-width="1.5" stroke-dasharray="3,3"/><text x="13" y="26" text-anchor="middle" font-size="9" fill="#000">km 0,0</text></g>
 <text x="915" y="992" font-size="9.5" fill="#000">Streckengrenze</text>
 </g>
-<text x="68" y="1094" font-size="10" fill="#000" font-family="IBM Plex Mono, monospace">Alle Weichen EW 1:9, 40 km/h · Gegengleisfahrten über die Überleitverbinder signalisiert (Gegengleisanzeiger an P2, N1 und N2)</text>
+<text x="68" y="1094" font-size="10" fill="#000" font-family="IBM Plex Mono, monospace">Alle Weichen EW 1:9, 40 km/h · Gegengleisanzeiger an P2, N1 und N2 · Gleis 4 = Ladegleis (Stumpfgleis)</text>
 <g font-family="IBM Plex Mono, monospace">
 <rect x="1050" y="900" width="490" height="176" fill="none" stroke="#000" stroke-width="2"/>
 <line x1="1050" y1="944" x2="1540" y2="944" stroke="#000" stroke-width="1"/>
